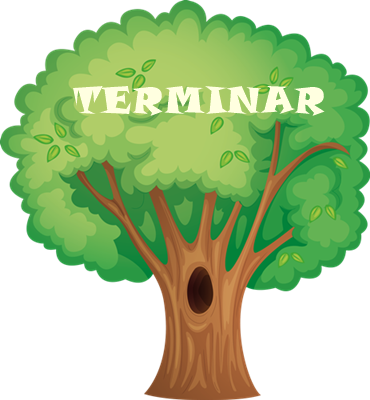
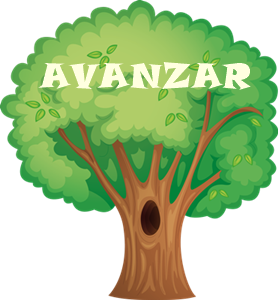
patrones Strategy, Factory, Singleton

diff --git a/LaRana/src/VistaR/PrincipalRana.java b/LaRana/src/VistaR/PrincipalRana.java
@@ -1,4 +1,4 @@
-    package VistaR;
+package VistaR;
 
 import ControladorR.ControladorGenerarNumero;
 import ControladorR.ControladorOrdenar;
@@ -17,7 +17,8 @@ public class PrincipalRana extends javax.swing.JFrame {
         initComponents();
         setLocationRelativeTo(null);
         Gif.setVisible(false);
-       // Texto.setVisible(false);
+
+        // Texto.setVisible(false);
         Roca1.setVisible(true);
         Roca2.setVisible(false);
         Roca3.setVisible(false);
@@ -74,10 +75,14 @@ public class PrincipalRana extends javax.swing.JFrame {
         Nube1 = new javax.swing.JLabel();
         Nube2 = new javax.swing.JLabel();
         TITULO = new javax.swing.JLabel();
-        terminar = new javax.swing.JLabel();
         jugar = new javax.swing.JLabel();
         Estanque = new javax.swing.JLabel();
-        jButton1 = new javax.swing.JButton();
+        avanzar = new javax.swing.JLabel();
+        texto1 = new javax.swing.JLabel();
+        texto2 = new javax.swing.JLabel();
+        texto3 = new javax.swing.JLabel();
+        texto4 = new javax.swing.JLabel();
+        Fondo = new javax.swing.JLabel();
 
         setDefaultCloseOperation(javax.swing.WindowConstants.EXIT_ON_CLOSE);
         setMaximumSize(new java.awt.Dimension(1375, 745));
@@ -146,7 +151,7 @@ public class PrincipalRana extends javax.swing.JFrame {
         getContentPane().add(Roca3, new org.netbeans.lib.awtextra.AbsoluteConstraints(550, 700, 160, 110));
 
         forden.setFont(new java.awt.Font("Tempus Sans ITC", 1, 28)); // NOI18N
-        getContentPane().add(forden, new org.netbeans.lib.awtextra.AbsoluteConstraints(590, 510, 280, 40));
+        getContentPane().add(forden, new org.netbeans.lib.awtextra.AbsoluteConstraints(410, 510, 280, 40));
 
         Gif.setFont(new java.awt.Font("Tempus Sans ITC", 1, 24)); // NOI18N
         Gif.setIcon(new javax.swing.ImageIcon(getClass().getResource("/VistaR/Recursos/output_BnuDB1.gif"))); // NOI18N
@@ -166,57 +171,53 @@ public class PrincipalRana extends javax.swing.JFrame {
 
         TITULO.setFont(new java.awt.Font("Tahoma", 0, 48)); // NOI18N
         TITULO.setIcon(new javax.swing.ImageIcon(getClass().getResource("/VistaR/Recursos/Titulo2.png"))); // NOI18N
-        getContentPane().add(TITULO, new org.netbeans.lib.awtextra.AbsoluteConstraints(460, 0, 330, 150));
-
-        terminar.setIcon(new javax.swing.ImageIcon(getClass().getResource("/VistaR/Recursos/arbolTerminar1.png"))); // NOI18N
-        terminar.addMouseListener(new java.awt.event.MouseAdapter() {
-            public void mouseClicked(java.awt.event.MouseEvent evt) {
-                terminarMouseClicked(evt);
-            }
-        });
-        getContentPane().add(terminar, new org.netbeans.lib.awtextra.AbsoluteConstraints(980, 310, -1, -1));
+        getContentPane().add(TITULO, new org.netbeans.lib.awtextra.AbsoluteConstraints(510, 50, 330, 150));
 
         jugar.setFont(new java.awt.Font("Snap ITC", 1, 48)); // NOI18N
-        jugar.setText("JUGAR ");
+        jugar.setForeground(new java.awt.Color(255, 255, 255));
+        jugar.setText("JUGEMOS");
         jugar.addMouseListener(new java.awt.event.MouseAdapter() {
             public void mouseClicked(java.awt.event.MouseEvent evt) {
                 jugarMouseClicked(evt);
             }
         });
-        getContentPane().add(jugar, new org.netbeans.lib.awtextra.AbsoluteConstraints(30, 160, 260, -1));
+        getContentPane().add(jugar, new org.netbeans.lib.awtextra.AbsoluteConstraints(40, 350, 330, -1));
 
         Estanque.setHorizontalAlignment(javax.swing.SwingConstants.TRAILING);
         Estanque.setIcon(new javax.swing.ImageIcon(getClass().getResource("/VistaR/Recursos/estanque1.png"))); // NOI18N
         getContentPane().add(Estanque, new org.netbeans.lib.awtextra.AbsoluteConstraints(-10, 620, 1250, 230));
 
-        jButton1.setText("Verificar Numero");
-        jButton1.addActionListener(new java.awt.event.ActionListener() {
-            public void actionPerformed(java.awt.event.ActionEvent evt) {
-                jButton1ActionPerformed(evt);
+        avanzar.setIcon(new javax.swing.ImageIcon(getClass().getResource("/VistaR/Recursos/arbolTerminar1.png"))); // NOI18N
+        avanzar.addMouseListener(new java.awt.event.MouseAdapter() {
+            public void mouseClicked(java.awt.event.MouseEvent evt) {
+                avanzarMouseClicked(evt);
             }
         });
-        getContentPane().add(jButton1, new org.netbeans.lib.awtextra.AbsoluteConstraints(740, 430, -1, -1));
+        getContentPane().add(avanzar, new org.netbeans.lib.awtextra.AbsoluteConstraints(1070, 420, -1, -1));
+
+        texto1.setFont(new java.awt.Font("Tempus Sans ITC", 1, 20)); // NOI18N
+        texto1.setText(" La rana hasta el loto quiere llegar  saltando en a roca lo podrán lograr.  ");
+        getContentPane().add(texto1, new org.netbeans.lib.awtextra.AbsoluteConstraints(320, 450, 690, 60));
+
+        texto2.setFont(new java.awt.Font("Tempus Sans ITC", 1, 20)); // NOI18N
+        texto2.setText("De                                                         las debes ordenar, arrastra los numeros");
+        getContentPane().add(texto2, new org.netbeans.lib.awtextra.AbsoluteConstraints(330, 520, 740, -1));
+
+        texto3.setFont(new java.awt.Font("Tempus Sans ITC", 1, 20)); // NOI18N
+        texto3.setText("Y si el tiempo se acaba… ¡la ranita a chapucear!");
+        getContentPane().add(texto3, new org.netbeans.lib.awtextra.AbsoluteConstraints(330, 570, -1, -1));
+
+        texto4.setFont(new java.awt.Font("Snap ITC", 1, 14)); // NOI18N
+        texto4.setForeground(new java.awt.Color(255, 255, 255));
+        texto4.setText("HAS CLIC AQUI PARA QUE  ");
+        getContentPane().add(texto4, new org.netbeans.lib.awtextra.AbsoluteConstraints(70, 340, -1, -1));
+
+        Fondo.setIcon(new javax.swing.ImageIcon(getClass().getResource("/VistaR/Recursos/Fondito2.jpg"))); // NOI18N
+        Fondo.setText("jLabel5");
+        getContentPane().add(Fondo, new org.netbeans.lib.awtextra.AbsoluteConstraints(0, 0, -1, -1));
 
         pack();
     }// </editor-fold>//GEN-END:initComponents
-
-    private void terminarMouseClicked(java.awt.event.MouseEvent evt) {//GEN-FIRST:event_terminarMouseClicked
-////
-//        String numeroNube1 = num1.getText();
-//        int numNube1 = Integer.parseInt(numeroNube1);
-//        System.out.println(numNube1);
-//        
-//         String numeroroc1 = ro1.getText();
-//        int numroroc1 = Integer.parseInt(numeroroc1);
-//        System.out.println(numroroc1);
-//        
-//          
-        ControladorOrdenar ordenar = ControladorOrdenar.getInstance();
-       
-        ordenar.OrdenarNumeros(forden, Roca1, Roca2, Roca3, Roca4, ro1, ro2, ro3, ro4, num1, num2, num3, num4, Gif, RanaxRocaL);
-
-
-    }//GEN-LAST:event_terminarMouseClicked
 
     private void jugarMouseClicked(java.awt.event.MouseEvent evt) {//GEN-FIRST:event_jugarMouseClicked
 
@@ -230,7 +231,7 @@ public class PrincipalRana extends javax.swing.JFrame {
         Roca2.setVisible(false);
         Roca3.setVisible(false);
         Roca4.setVisible(false);
-      //  Texto.setVisible(true);
+        //  Texto.setVisible(true);
 
         ControladorGenerarNumero generar = ControladorGenerarNumero.getInstance();
         generar.generadorNumeros(num1, num2, num3, num4, forden);
@@ -245,9 +246,12 @@ public class PrincipalRana extends javax.swing.JFrame {
         System.out.println("-------" + numeroEntradas);
     }//GEN-LAST:event_jugarMouseClicked
 
-    private void jButton1ActionPerformed(java.awt.event.ActionEvent evt) {//GEN-FIRST:event_jButton1ActionPerformed
-      
-    }//GEN-LAST:event_jButton1ActionPerformed
+    private void avanzarMouseClicked(java.awt.event.MouseEvent evt) {//GEN-FIRST:event_avanzarMouseClicked
+       
+        ControladorOrdenar ordenar = ControladorOrdenar.getInstance();
+        ordenar.OrdenarNumeros(forden, Roca1, Roca2, Roca3, Roca4, ro1, ro2, ro3, ro4, num1, num2, num3, num4, Gif, RanaxRocaL);
+
+    }//GEN-LAST:event_avanzarMouseClicked
 
     /**
      * @param args the command line arguments
@@ -286,6 +290,7 @@ public class PrincipalRana extends javax.swing.JFrame {
 
     // Variables declaration - do not modify//GEN-BEGIN:variables
     private javax.swing.JLabel Estanque;
+    private javax.swing.JLabel Fondo;
     private javax.swing.JLabel Gif;
     private javax.swing.JLabel Nube1;
     private javax.swing.JLabel Nube2;
@@ -297,8 +302,8 @@ public class PrincipalRana extends javax.swing.JFrame {
     private javax.swing.JLabel Roca3;
     private javax.swing.JLabel Roca4;
     private javax.swing.JLabel TITULO;
+    private javax.swing.JLabel avanzar;
     private javax.swing.JLabel forden;
-    private javax.swing.JButton jButton1;
     private javax.swing.JLabel jugar;
     private javax.swing.JLabel num1;
     private javax.swing.JLabel num2;
@@ -308,7 +313,10 @@ public class PrincipalRana extends javax.swing.JFrame {
     private javax.swing.JLabel ro2;
     private javax.swing.JLabel ro3;
     private javax.swing.JLabel ro4;
-    private javax.swing.JLabel terminar;
+    private javax.swing.JLabel texto1;
+    private javax.swing.JLabel texto2;
+    private javax.swing.JLabel texto3;
+    private javax.swing.JLabel texto4;
     // End of variables declaration//GEN-END:variables
 
 }

diff --git a/LaRana/src/ControladorR/OrdenAscecendente.java b/LaRana/src/ControladorR/OrdenAscecendente.java
@@ -52,52 +52,49 @@ public class OrdenAscecendente implements IOrdenarStrategy {
         if (!"".equals(roc1)) {
 
             int numroc1 = Integer.parseInt(roc1);
-            System.out.println("////////");
-            System.out.println(numroc1);
-            System.out.println(arreglo[0]);
-            System.out.println("///////");
             if (arreglo[0] == numroc1) {
                 roca2.setVisible(true);
-                System.out.println("estoy aqui");
+
             } else {
                 numRoc1.setText("");
-                JOptionPane.showMessageDialog(null, "Erraste");
-                
+                JOptionPane.showMessageDialog(null, "Te has equivocao, vuelve a intentar");
+
 //          sout    
             }
         }
-        if (roc2 != "") {
+        if (!"".equals(roc2)) {
 
             int numroc2 = Integer.parseInt(roc2);
             if (arreglo[1] == numroc2) {
                 roca3.setVisible(true);
             } else {
                 numRoc2.setText("");
-                JOptionPane.showMessageDialog(null, "Erraste");
-                System.out.println("y aquí tambien");//              
+                JOptionPane.showMessageDialog(null, "Te has equivocao, vuelve a intentar");
+
             }
         }
-        if (roc3 != "") {
+        if (!"".equals(roc3)) {
 
             int numroc3 = Integer.parseInt(roc3);
             if (arreglo[2] == numroc3) {
                 roca4.setVisible(true);
             } else {
                 numRoc3.setText("");
-                JOptionPane.showMessageDialog(null, "Erraste");
+                JOptionPane.showMessageDialog(null, "Te has equivocao, vuelve a intenntar");
 //             
             }
         }
 
-        if (roc4 != "") {
+        if (!"".equals(roc4)) {
 
             int numroc4 = Integer.parseInt(roc4);
             if (arreglo[3] == numroc4) {
 
-                JOptionPane.showMessageDialog(null, "Ganaste");
+                JOptionPane.showMessageDialog(null, "GANASTE");
+                Gif.setVisible(true);
             } else {
                 numRoc4.setText("");
-                JOptionPane.showMessageDialog(null, "Erraste");
+                JOptionPane.showMessageDialog(null, "Te has equivocao, vuelve a intentar");
 //          
             }
 

diff --git a/LaRana/src/ControladorR/OrdenDescendente.java b/LaRana/src/ControladorR/OrdenDescendente.java
@@ -60,49 +60,51 @@ public class OrdenDescendente implements IOrdenarStrategy {
         System.out.println(arreglo[2]);
         System.out.println(arreglo[3]);
 
-        if (roc1 != "") {
+        if (!"".equals(roc1)) {
 
             int numroc1 = Integer.parseInt(roc1);
             if (arreglo[3] == numroc1) {
                 roca2.setVisible(true);
             } else {
                 numRoc1.setText("");
-                JOptionPane.showMessageDialog(null, "Erraste");
+                JOptionPane.showMessageDialog(null, "Te has equivocao, vuelve a intentar");
 //        
             }
         }
-        if (roc2 != "") {
+        if (!"".equals(roc2)) {
             
             int numroc2 = Integer.parseInt(roc2);
             if (arreglo[2] == numroc2) {
                 roca3.setVisible(true);
             } else {
                 numRoc2.setText("");
-                JOptionPane.showMessageDialog(null, "Erraste");
+                JOptionPane.showMessageDialog(null, "Te has equivocao, vuelve a intentar");
 //              
             }
         }
-        if (roc3 != "") {
+        if (!"".equals(roc3)) {
             
             int numroc3 = Integer.parseInt(roc3);
             if (arreglo[1] == numroc3) {
                 roca4.setVisible(true);
             } else {
                 numRoc3.setText("");
-                JOptionPane.showMessageDialog(null, "Erraste");
+                JOptionPane.showMessageDialog(null, "Te has equivocao, vuelve a intentar");
 //             
             }
         }
 
-        if (roc4 != "") {
+        if (!"".equals(roc4)) {
        
             int numroc4 = Integer.parseInt(roc4);
             if (arreglo[0] == numroc4) {
 
-                JOptionPane.showMessageDialog(null, "Ganaste");
+                JOptionPane.showMessageDialog(null, "GANASTE");
+                RanaxRocaL.setVisible(false);
+                Gif.setVisible(true);
             } else {
                 numRoc4.setText("");
-                JOptionPane.showMessageDialog(null, "Erraste");
+                JOptionPane.showMessageDialog(null, "Te has equivocao, vuelve a intentar");
 //          
             }
 
